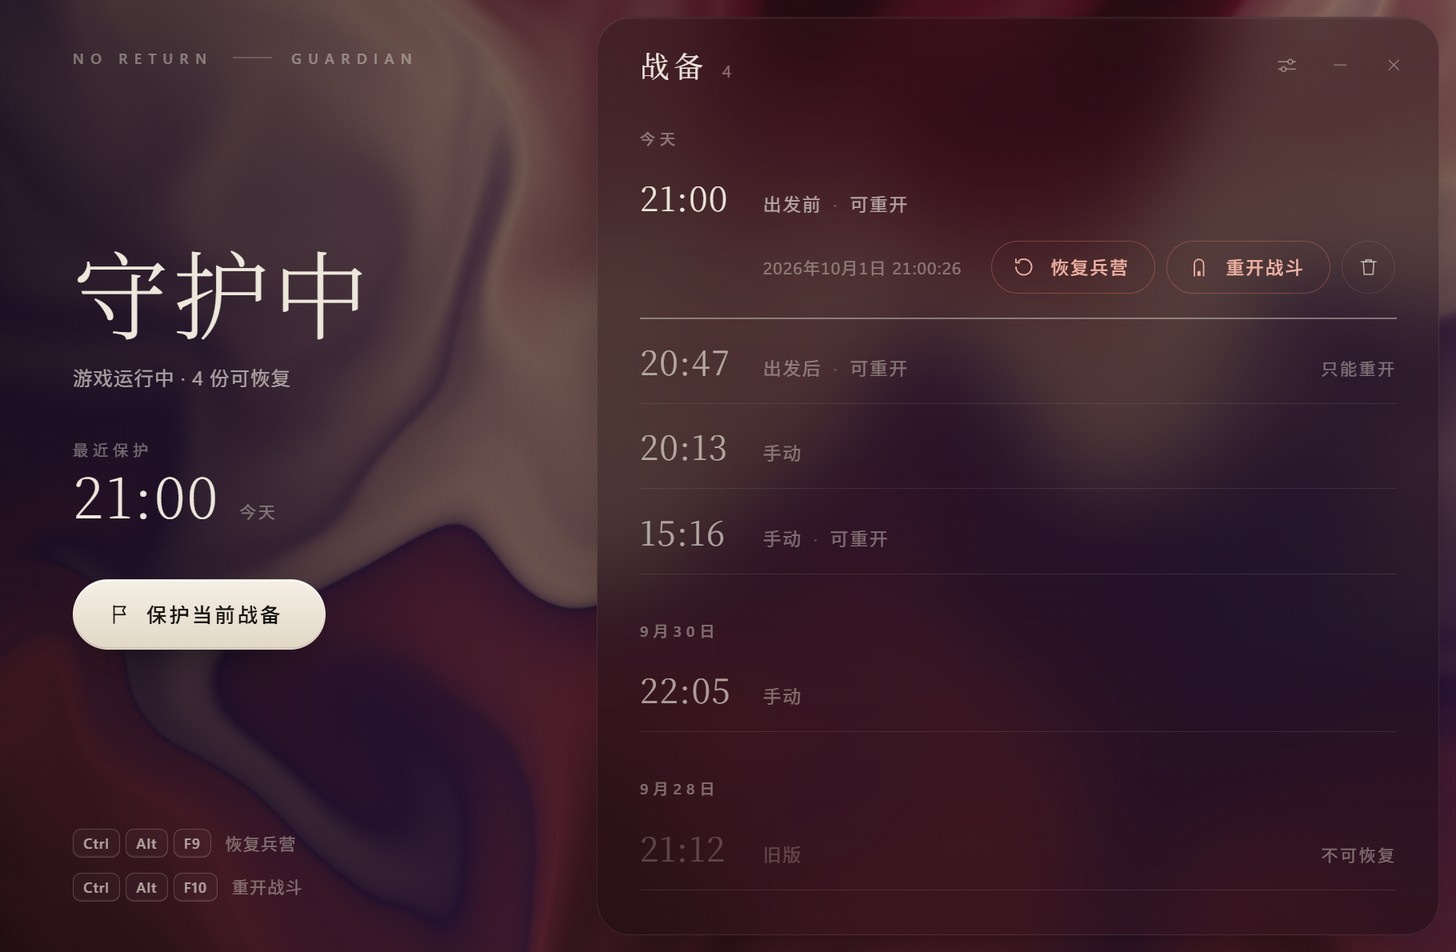
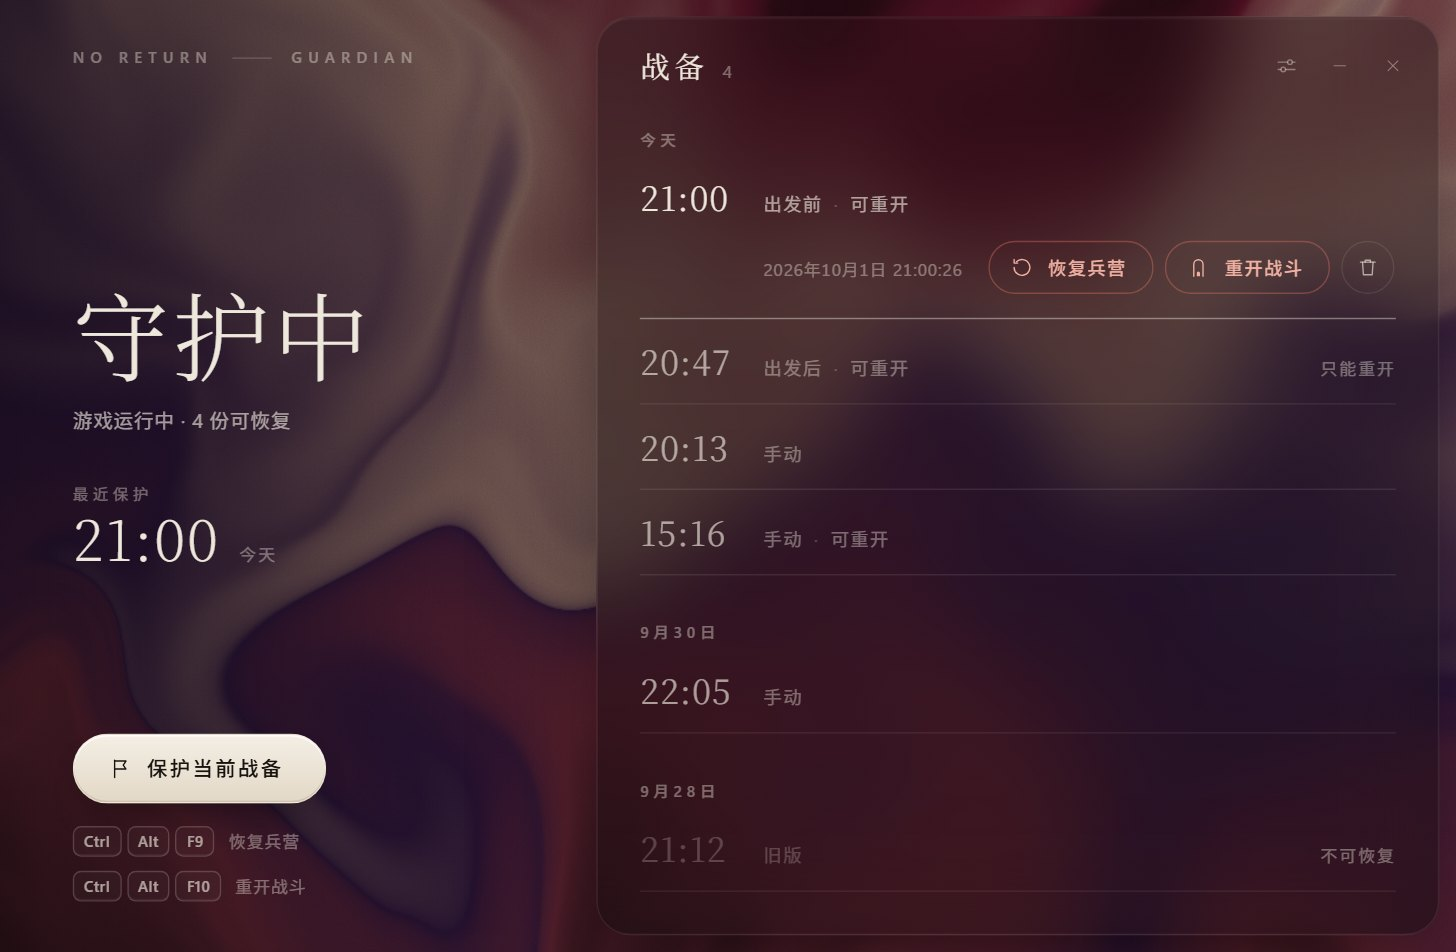
Seat the protect button on the bottom edge; give toasts a slot above the headline
The previous change dropped the whole stage to the bottom edge, and the button
still moved between states: the hotkeys and the secondary actions were separate
rows, so a stopped game (no hotkeys, undo and launch shown) put it higher.

The stage now has three parts. The status and the last protection are centred
in the space below the wordmark; the primary button sits on the bottom edge,
level with the panel. Under the button is one block of fixed height that holds
the hotkeys while the game runs and undo and launch while it does not, so the
button stays in the same place in every state.

Toasts get a permanent slot above the headline instead of covering the hotkey
row. A long toast grows upwards out of the slot, so it never pushes or covers
the headline. The README screenshot shows the new layout.

diff --git a/src/NoReturnGuardian.Web/src/components/Stage.tsx b/src/NoReturnGuardian.Web/src/components/Stage.tsx
@@ -1,9 +1,10 @@
-import type { ViewState } from '../types';
+import type { Notice, ViewState } from '../types';
 import { Button, Keys } from './Controls';
 import { Icon } from './Icons';
 
 interface StageProps {
   state: ViewState;
+  notice: Notice | null;
   onProtect: () => void;
   onUndo: () => void;
   onLaunch: () => void;
@@ -27,8 +28,9 @@ function updateLabel({ available, installable, phase, progress }: ViewState['ver
 }
 
 // 左侧舞台：只回答三件事——现在守护着吗、最近一次保护在几点、下一步按哪里。
-export function Stage({ state, onProtect, onUndo, onLaunch, onChooseProfile, onWarm, onUpdate }: StageProps) {
+export function Stage({ state, notice, onProtect, onUndo, onLaunch, onChooseProfile, onWarm, onUpdate }: StageProps) {
   const { hotkeys, version } = state;
+  const { warm, undo, launch } = state.actions;
   const updating = version.phase === 'downloading' || version.phase === 'installing';
   return (
     <section className="stage">
@@ -42,6 +44,15 @@ export function Stage({ state, onProtect, onUndo, onLaunch, onChooseProfile, onW
           {updateLabel(version)}
         </Button>
       )}
+
+      {/* 提示条的常驻位置：大字上面一直留着这一条，提示只出现在这里。 */}
+      <div className="notice" aria-live="polite">
+        {notice && (
+          <div key={notice.id} className={`toast toast-${notice.tone}`}>
+            {notice.text}
+          </div>
+        )}
+      </div>
 
       <div className={`status status-${state.mode}`} key={state.headline}>
         <h1 className={`status-headline${state.headline.length > 4 ? ' long' : ''}`}>{state.headline}</h1>
@@ -67,40 +78,45 @@ export function Stage({ state, onProtect, onUndo, onLaunch, onChooseProfile, onW
             选择存档目录
           </Button>
         )}
-        <div className="stage-secondary">
-          {state.actions.warm && (
-            <Button variant="ghost" icon={<Icon.restore />} onClick={onWarm}>
-              处理未完成的恢复
-            </Button>
+        {/* 按钮下面这一块高度固定：游戏运行时是快捷键，没运行时是撤销、启动游戏这些次要操作，按钮的位置不随状态变。 */}
+        <div className="stage-foot">
+          {(warm || undo || launch) && (
+            <div className="stage-secondary">
+              {warm && (
+                <Button variant="ghost" icon={<Icon.restore />} onClick={onWarm}>
+                  处理未完成的恢复
+                </Button>
+              )}
+              {undo && (
+                <Button variant="ghost" icon={<Icon.undo />} onClick={onUndo}>
+                  撤销最近恢复
+                </Button>
+              )}
+              {launch && (
+                <Button variant="ghost" icon={<Icon.play />} onClick={onLaunch}>
+                  启动游戏
+                </Button>
+              )}
+            </div>
           )}
-          {state.actions.undo && (
-            <Button variant="ghost" icon={<Icon.undo />} onClick={onUndo}>
-              撤销最近恢复
-            </Button>
-          )}
-          {state.actions.launch && (
-            <Button variant="ghost" icon={<Icon.play />} onClick={onLaunch}>
-              启动游戏
-            </Button>
+          {(hotkeys.recover || hotkeys.restart) && (
+            <dl className="hotkeys">
+              {hotkeys.recover && (
+                <div>
+                  <dt><Keys combo={hotkeys.recover} /></dt>
+                  <dd>恢复兵营</dd>
+                </div>
+              )}
+              {hotkeys.restart && (
+                <div>
+                  <dt><Keys combo={hotkeys.restart} /></dt>
+                  <dd>重开战斗</dd>
+                </div>
+              )}
+            </dl>
           )}
         </div>
       </div>
-
-      {/* 底边这一行留给快捷键和提示条，没有快捷键时也空着。 */}
-      <dl className="hotkeys">
-        {hotkeys.recover && (
-          <div>
-            <dt><Keys combo={hotkeys.recover} /></dt>
-            <dd>恢复兵营</dd>
-          </div>
-        )}
-        {hotkeys.restart && (
-          <div>
-            <dt><Keys combo={hotkeys.restart} /></dt>
-            <dd>重开战斗</dd>
-          </div>
-        )}
-      </dl>
     </section>
   );
 }

diff --git a/src/NoReturnGuardian.Web/src/styles.css b/src/NoReturnGuardian.Web/src/styles.css
@@ -112,16 +112,14 @@ p {
 /* ---------- 布局 ---------- */
 
 .app {
-  --stage: max(360px, 41%);
   position: relative;
   display: grid;
-  grid-template-columns: var(--stage) 1fr;
+  grid-template-columns: minmax(360px, 41%) 1fr;
   height: 100%;
 }
 
 .stage,
-.panel,
-.toasts {
+.panel {
   position: relative;
   z-index: 1;
 }
@@ -211,10 +209,28 @@ button,
   opacity: 1;
 }
 
-/* 舞台只在字标下面留白：状态、最近保护、按钮和快捷键成一组落到底边，和右边面板的底边对齐。 */
-.status {
+/* 舞台从上到下是三段：字标；提示条的空位、状态和最近保护；按钮和它下面那一块。
+   后两段之前各有一段留白：状态居中，按钮坐在底边，和右边面板的底边对齐。 */
+
+/* 提示条的常驻位置：大字上面留一条提示条高的空位，提示只出现在这里，不压任何东西。
+   长提示折成几行时往上长，不推动下面的大字。 */
+.notice {
+  position: relative;
+  flex: none;
+  height: 60px;
   margin-top: auto;
-  padding-top: 40px;
+}
+
+.notice .toast {
+  position: absolute;
+  left: 0;
+  bottom: 0;
+  width: max-content;
+  max-width: 100%;
+}
+
+.status {
+  padding-top: 14px;
 }
 
 .status-headline {
@@ -289,12 +305,14 @@ button,
   display: flex;
   flex-direction: column;
   align-items: flex-start;
-  gap: 14px;
-  margin-top: 40px;
+  margin-top: auto;
+  padding-top: 40px;
 }
 
-.stage-secondary:empty {
-  display: none;
+/* 按两行快捷键的高度固定，次要操作只有一行，也占这么高。 */
+.stage-foot {
+  min-height: 54px;
+  margin-top: 16px;
 }
 
 .stage-secondary {
@@ -304,13 +322,11 @@ button,
   margin-left: -14px;
 }
 
-/* 至少一条提示条高，快捷键和提示条的中线对齐。 */
 .hotkeys {
   display: flex;
-  flex-wrap: wrap;
-  gap: 10px 26px;
-  min-height: 74px;
-  padding-top: 30px;
+  flex-direction: column;
+  gap: 10px;
+  margin: 0;
 }
 
 .hotkeys div {
@@ -995,25 +1011,6 @@ kbd {
 }
 
 /* ---------- 提示条 ---------- */
-
-/* 提示占舞台底部快捷键那一行（.hotkeys 一直留着这一行），期间快捷键淡出。
-   大字和按钮会随窗口高度上下移动，这一行不会，所以提示压不到它们；宽度也不越过右边的面板。 */
-.toasts {
-  position: fixed;
-  left: 52px;
-  bottom: 36px;
-  max-width: calc(var(--stage) - 72px);
-  z-index: 5;
-  pointer-events: none;
-}
-
-.hotkeys > div {
-  transition: opacity 0.4s var(--ease);
-}
-
-.app:has(.toast) .hotkeys > div {
-  opacity: 0;
-}
 
 .toast {
   padding: 11px 20px;

diff --git a/src/NoReturnGuardian.Web/src/App.tsx b/src/NoReturnGuardian.Web/src/App.tsx
@@ -7,17 +7,11 @@ import { Field } from './components/Field';
 import { Settings } from './components/Settings';
 import { type Sheet, SheetLayer } from './components/Sheets';
 import { Stage } from './components/Stage';
-import type { Command, HostMessage, NativeAction, SnapshotView, Tone, ViewState } from './types';
+import type { Command, HostMessage, NativeAction, Notice, SnapshotView, Tone, ViewState } from './types';
 
 // 恢复前快照平时用不到，默认不进清单；“撤销最近恢复”照常可用。
 function listed(state: ViewState): SnapshotView[] {
   return state.settings.showUndo ? state.snapshots : state.snapshots.filter((item) => !item.preRestore);
-}
-
-interface Toast {
-  id: number;
-  text: string;
-  tone: Tone;
 }
 
 export function App() {
@@ -26,7 +20,7 @@ export function App() {
   const [fresh, setFresh] = useState<string | null>(null);
   const [sheet, setSheet] = useState<Sheet | null>(null);
   const [view, setView] = useState<'ledger' | 'settings'>('ledger');
-  const [notice, setNotice] = useState<Toast | null>(null);
+  const [notice, setNotice] = useState<Notice | null>(null);
   const focusNonce = useRef(0);
   const sheetRef = useRef<Sheet | null>(null);
   sheetRef.current = sheet;
@@ -169,6 +163,7 @@ export function App() {
 
       <Stage
         state={state}
+        notice={notice}
         onProtect={() => setSheet({ kind: 'protect' })}
         onUndo={() => setSheet({ kind: 'undo' })}
         onLaunch={() => send({ name: 'launch' })}
@@ -236,14 +231,6 @@ export function App() {
           )}
         </div>
       </section>
-
-      <div className="toasts" aria-live="polite">
-        {notice && (
-          <div key={notice.id} className={`toast toast-${notice.tone}`}>
-            {notice.text}
-          </div>
-        )}
-      </div>
 
       {sheet && (
         <SheetLayer

diff --git a/scripts/diagnostics/ui-align-probe.js b/scripts/diagnostics/ui-align-probe.js
@@ -20,9 +20,12 @@
     old.textContent = '.btn > span, .panel-back span { translate: none; }';
     document.head.appendChild(old);
   }
-  if (view === 'main' && !q('.hotkeys div')) {
-    // 截图模式不注册快捷键，说明那一行是空的；按 Stage 的结构填一份。
-    q('.hotkeys').innerHTML = [['Ctrl', 'Alt', 'F9', '结算页恢复'], ['Ctrl', 'Alt', 'F10', '重开遭遇']].map(function (row) {
+  if (view === 'main' && !q('.hotkeys')) {
+    // 截图模式不注册快捷键，说明不显示；按 Stage 的结构放一份。
+    var legend = document.createElement('dl');
+    legend.className = 'hotkeys';
+    q('.stage-foot').appendChild(legend);
+    legend.innerHTML = [['Ctrl', 'Alt', 'F9', '结算页恢复'], ['Ctrl', 'Alt', 'F10', '重开遭遇']].map(function (row) {
       return '<div><dt><span class="keys"><kbd>' + row.slice(0, 3).join('</kbd><kbd>') + '</kbd></span></dt><dd>' + row[3] + '</dd></div>';
     }).join('');
   }
@@ -38,7 +41,7 @@
     var toast = document.createElement('div');
     toast.className = 'toast toast-signal';
     toast.textContent = '战备已保护';
-    q('.toasts').appendChild(toast);
+    q('.notice').appendChild(toast);
   }
   setTimeout(function () {
     var items = [];

diff --git a/src/NoReturnGuardian.Web/src/types.ts b/src/NoReturnGuardian.Web/src/types.ts
@@ -93,6 +93,13 @@ export type HostMessage =
 
 export type Tone = 'neutral' | 'signal' | 'danger';
 
+/** 舞台上的一条提示。 */
+export interface Notice {
+  id: number;
+  text: string;
+  tone: Tone;
+}
+
 export type HostSheet =
   | { kind: 'interrupted' }
   /** 开启自动清理前的确认：现在就要删掉的旧快照 */
